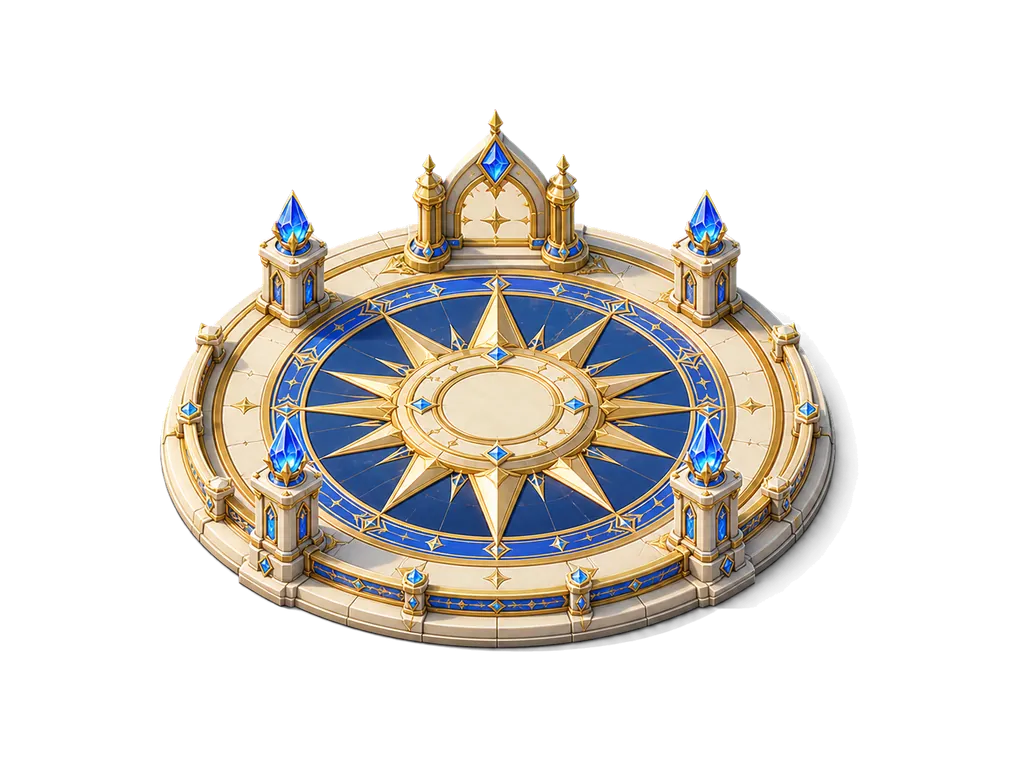
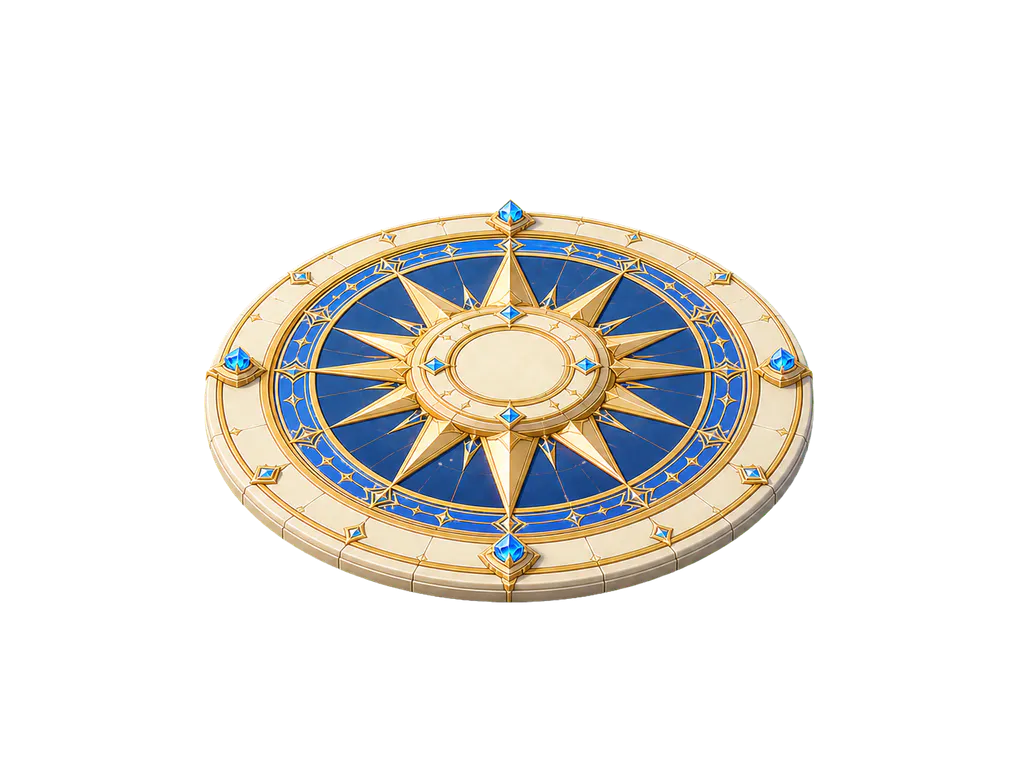
Polish First Light Island 001 composition

Changed region(s): [[0.1562, 0.1562, 0.8438, 0.875]]

diff --git a/src/features/gamification/level-worlds/LevelWorlds.css b/src/features/gamification/level-worlds/LevelWorlds.css
@@ -1013,6 +1013,16 @@
   background-image: url('../../../assets/Dark_controller.webp');
 }
 
+.island-run-prototype[data-island-number="1"] .island-run-prototype__footer-controller-shell {
+  width: min(92%, 515px);
+}
+
+.island-run-prototype[data-island-number="1"] .island-run-prototype__footer-controller-shell::before {
+  background-image: url('../../../assets/Controller_lightblue.webp');
+  filter: brightness(1.08) saturate(0.86);
+  opacity: 0.94;
+}
+
 
 .island-run-prototype__footer-nav-btn--slot-story,
 .island-run-prototype__footer-nav-btn--slot-creatures,
@@ -2333,6 +2343,10 @@
   animation-name: island-art-boss-breathe-tidelock;
 }
 
+.island-art-layers[data-island-number="1"] .island-art-layers__boss {
+  animation-name: island-art-boss-breathe-first-light;
+}
+
 .island-art-layers__scenery {
   transform-origin: 50% 100%;
   animation: island-art-scenery-pulse 7.2s ease-in-out infinite;
@@ -2386,6 +2400,25 @@
 @keyframes island-art-boss-breathe {
   0%, 100% { transform: translate(-50%, -50%) translateY(0) scale(1); filter: brightness(1) saturate(1); }
   50% { transform: translate(-50%, -50%) translateY(-0.8%) scale(1.018); filter: brightness(1.045) saturate(1.04); }
+}
+
+@keyframes island-art-boss-breathe-first-light {
+  0%, 100% {
+    transform: translate(-50%, -50%) translateY(0) scale(1);
+    filter:
+      brightness(1.08)
+      saturate(1.08)
+      drop-shadow(0 7px 7px rgba(14, 43, 84, 0.42))
+      drop-shadow(0 0 9px rgba(86, 177, 255, 0.38));
+  }
+  50% {
+    transform: translate(-50%, -50%) translateY(-0.8%) scale(1.018);
+    filter:
+      brightness(1.14)
+      saturate(1.12)
+      drop-shadow(0 9px 8px rgba(14, 43, 84, 0.38))
+      drop-shadow(0 0 14px rgba(255, 218, 126, 0.46));
+  }
 }
 
 @keyframes island-art-boss-breathe-tidelock {
@@ -4187,6 +4220,59 @@
 
 .island-orbit-stop--scene-3 .island-orbit-stop__label {
   border-color: rgba(220, 207, 255, 0.72);
+}
+
+.island-run-board[data-island-number="1"] .island-orbit-stop__label {
+  min-width: 62px;
+  padding: 0.14rem 0.38rem;
+  border-color: rgba(206, 164, 74, 0.88);
+  background:
+    linear-gradient(180deg, rgba(255, 255, 252, 0.96), rgba(242, 232, 206, 0.94));
+  color: #102f59;
+  font-weight: 850;
+  letter-spacing: 0.01em;
+  text-shadow: 0 1px 0 rgba(255, 255, 255, 0.92);
+  box-shadow:
+    0 4px 9px rgba(13, 43, 78, 0.2),
+    inset 0 1px 0 rgba(255, 255, 255, 0.96);
+}
+
+.island-run-board[data-island-number="1"] .island-orbit-stop__status-pill {
+  min-width: 38px;
+  min-height: 18px;
+  padding: 2px 6px;
+  border-color: rgba(204, 159, 66, 0.88);
+  background:
+    linear-gradient(180deg, rgba(255, 253, 244, 0.97), rgba(233, 219, 181, 0.96));
+  color: #14345e;
+  box-shadow:
+    0 4px 8px rgba(13, 43, 78, 0.18),
+    inset 0 1px 0 rgba(255, 255, 255, 0.94);
+}
+
+.island-run-board[data-island-number="1"] .island-orbit-stop__status-pill--completed,
+.island-run-board[data-island-number="1"] .island-orbit-stop__status-pill--accessible {
+  border-color: rgba(73, 160, 111, 0.82);
+  background: linear-gradient(180deg, rgba(237, 255, 242, 0.98), rgba(178, 226, 194, 0.96));
+  color: #174d32;
+}
+
+.island-run-board[data-island-number="1"] .island-orbit-stop__status-pill--active {
+  border-color: rgba(60, 146, 216, 0.86);
+  background: linear-gradient(180deg, rgba(241, 251, 255, 0.98), rgba(176, 219, 246, 0.96));
+  color: #123f70;
+}
+
+.island-run-board[data-island-number="1"] .island-orbit-stop__status-pill--locked,
+.island-run-board[data-island-number="1"] .island-orbit-stop__status-pill--ticket_required {
+  border-color: rgba(183, 144, 69, 0.78);
+  background: linear-gradient(180deg, rgba(250, 246, 233, 0.97), rgba(220, 207, 170, 0.95));
+  color: #5b4721;
+}
+
+.island-run-board[data-island-number="1"] .island-orbit-stop__ticket-cost {
+  color: #614918;
+  border-left-color: rgba(123, 92, 28, 0.34);
 }
 
 .island-orbit-stop--scene-2 .island-orbit-stop__icon {

diff --git a/src/features/gamification/level-worlds/components/IslandRunBoardPrototype.tsx b/src/features/gamification/level-worlds/components/IslandRunBoardPrototype.tsx
@@ -11392,7 +11392,10 @@ export function IslandRunBoardPrototype({
   }
 
   return (
-    <section className={`island-run-prototype ${isHudCollapsed ? 'island-run-prototype--hud-collapsed' : ''}`}>
+    <section
+      className={`island-run-prototype ${isHudCollapsed ? 'island-run-prototype--hud-collapsed' : ''}`}
+      data-island-number={islandNumber}
+    >
       {showEntryAudioModal && (
         <div className="island-run-entry-audio" role="presentation">
           <div
@@ -12319,7 +12322,9 @@ export function IslandRunBoardPrototype({
           completedEncounterIndices={completedEncounterIndices}
           visibleTechnologyFragments={visibleTechnologyFragments}
           tokenIndex={tokenIndex}
-          caretakerArtSrc={caretakerInhabitant?.premiumArtSrc ?? caretakerInhabitant?.retroSpriteSrc ?? '/assets/island_caretakers/001/IMG_caretaker_3d_blue.webp'}
+          caretakerArtSrc={caretakerInhabitant?.premiumArtSrc ?? caretakerInhabitant?.retroSpriteSrc ?? (islandNumber === 1
+            ? '/assets/island_caretakers/001/first-light-caretaker.webp'
+            : '/assets/island_caretakers/001/IMG_caretaker_3d_blue.webp')}
           caretakerLabel={caretakerInhabitant?.displayName ?? 'Island caretaker'}
           caretakerBubbleText={caretakerBoardBubbleText}
           caretakerTileIndex={shouldShowCaretakerTalkAction ? ISLAND_CARETAKER_TILE_INDEX : null}
@@ -12647,7 +12652,9 @@ export function IslandRunBoardPrototype({
               session={session}
               islandNumber={islandNumber}
               drawIndex={cardDrawIndex}
-              caretakerArtSrc={caretakerInhabitant?.premiumArtSrc ?? caretakerInhabitant?.retroSpriteSrc ?? '/assets/island_caretakers/001/IMG_caretaker_3d_blue.webp'}
+              caretakerArtSrc={caretakerInhabitant?.premiumArtSrc ?? caretakerInhabitant?.retroSpriteSrc ?? (islandNumber === 1
+                ? '/assets/island_caretakers/001/first-light-caretaker.webp'
+                : '/assets/island_caretakers/001/IMG_caretaker_3d_blue.webp')}
               caretakerName={caretakerInhabitant?.displayName ?? 'Caretaker'}
               onClose={() => setShowGamifiedJournalCard(false)}
               onSaved={(message) => {

diff --git a/src/features/gamification/level-worlds/services/__tests__/islandRunBoardPerformanceGuards.test.ts b/src/features/gamification/level-worlds/services/__tests__/islandRunBoardPerformanceGuards.test.ts
@@ -91,15 +91,25 @@ export const islandRunBoardPerformanceGuardTests: TestCase[] = [
     name: 'Island 1 buildings preserve the fixed-plot growth ladder',
     run: () => {
       const manifest = JSON.parse(readSource('public/assets/islands/island-001/island-art.json')) as {
-        landmarks?: Array<{ levelScales?: number[] }>;
+        landmarks?: Array<{ anchorId?: string; levelScales?: number[] }>;
       };
+      const hatchery = manifest.landmarks?.find((landmark) => landmark.anchorId === 'hatchery');
+      const habit = manifest.landmarks?.find((landmark) => landmark.anchorId === 'habit');
+      const mystery = manifest.landmarks?.find((landmark) => landmark.anchorId === 'mystery');
+      const wisdom = manifest.landmarks?.find((landmark) => landmark.anchorId === 'wisdom');
       assert(
-        manifest.landmarks?.every((landmark) => (
-          landmark.levelScales?.[0] === 0.5
+        [hatchery, mystery, wisdom].every((landmark) => (
+          landmark?.levelScales?.[0] === 0.5
           && landmark.levelScales?.[1] === 0.75
           && landmark.levelScales?.[2] === 0.95
-        )) ?? false,
-        'Island 1 buildings must grow from the same fixed plot: L1 leaves breathing room, L2 fills most of it, and L3 reaches the full approved footprint',
+        )),
+        'Architectural Island 1 landmarks must grow from readable L1 footprints to full L3 plots',
+      );
+      assert(
+        habit?.levelScales?.[0] === 0.5
+        && habit.levelScales?.[1] === 0.72
+        && habit.levelScales?.[2] === 0.86,
+        'The Crown Tree must preserve more canopy clearance than the architectural landmarks',
       );
     },
   },

diff --git a/src/features/gamification/level-worlds/inhabitants/definitions/island001Inhabitants.ts b/src/features/gamification/level-worlds/inhabitants/definitions/island001Inhabitants.ts
@@ -10,7 +10,7 @@ export const island001InhabitantDefinitions = [
     civilizationName: 'The Lumin',
     archetype: 'servant_wizard',
     biome: 'woodland',
-    premiumArtSrc: '/assets/island_caretakers/001/IMG_caretaker_3d_blue.webp',
+    premiumArtSrc: '/assets/island_caretakers/001/first-light-caretaker.webp',
     retroSpriteSrc: '/assets/island_caretakers/001/IMG_retro_green.webp',
     defaultTopicIds: ['i001-topic-next-step', 'i001-topic-luma-isle', 'i001-topic-caretaker'],
   },

diff --git a/work/island-visual-library/island-001-first-light-kingdom/ASSET_TRACKER.md b/work/island-visual-library/island-001-first-light-kingdom/ASSET_TRACKER.md
@@ -23,7 +23,8 @@ preserved under the Island 006 runtime folder.
 | 14 | `landmarks/wisdom/wisdom-l3.webp` | Complete, wired, phone-QA | 1024 × 1024 transparent WebP, 186 KB |
 | 15 | `bosses/aureon-idle.webp` | Complete, wired, phone-QA | 1024 × 1024 transparent WebP, 155 KB |
 | 16 | `bosses/aureon-defeated.webp` | Complete, wired | 1024 × 1024 transparent WebP, 131 KB; calm/restored state |
-| 17 | `scenery/first-light-sun-court.webp` | Complete, wired, phone-QA | 1024 × 768 transparent WebP, 105 KB |
+| 17 | `scenery/first-light-sun-court.webp` | Complete, wired, phone-QA | 1024 × 768 transparent WebP, 83 KB; low compass dais, no tower silhouette |
+| 18 | `/assets/island_caretakers/001/first-light-caretaker.webp` | Complete, wired, phone-QA | 768 × 768 transparent WebP, 86 KB; non-humanoid Luma compass spirit |
 
 ## Asset 1 prompt
 
@@ -90,8 +91,25 @@ the image scale changes:
 - **L1 — 0.50:** readable on a 390 × 844 viewport while leaving clear plot space.
 - **L2 — 0.75:** visibly operational and fills most of the plot.
 - **L3 — 0.95:** majestic, reaches the plot boundary, and stays clear of the
-  neighbouring route and HUD.
+  neighbouring route and HUD. The wider Crown Tree uses **0.86** at L3 so its
+  canopy keeps the same visual breathing room as the architectural landmarks.
 
 The two lower landmarks use a perspective-corrected scene Y anchor of 1040.
 This was measured on the real Island Run renderer; retaining the old
 mathematically mirrored Y anchor placed their bases on the cliff face.
+
+## Assets 17–18 — center court and Luma guide
+
+The first center-court draft included a tall dark gate that read as a fifth
+building between the two rear landmarks at phone scale. It was replaced with a
+low ivory, sapphire, and gold compass dais. The live boss remains the only
+dominant object in the arena.
+
+The old caretaker's oversized navy wizard hat created the same false-building
+silhouette. A humanoid replacement draft was rejected as too youthful and
+character-led. The selected Luma treatment is instead a compact, non-humanoid
+floating compass spirit with a square silhouette and no face. It preserves the
+existing caretaker interaction while reading as a magical affordance at
+390 × 844. Both assets were generated against the approved First Light world
+reference on uniform magenta, converted locally to alpha, and compressed to
+transparent WebP.
